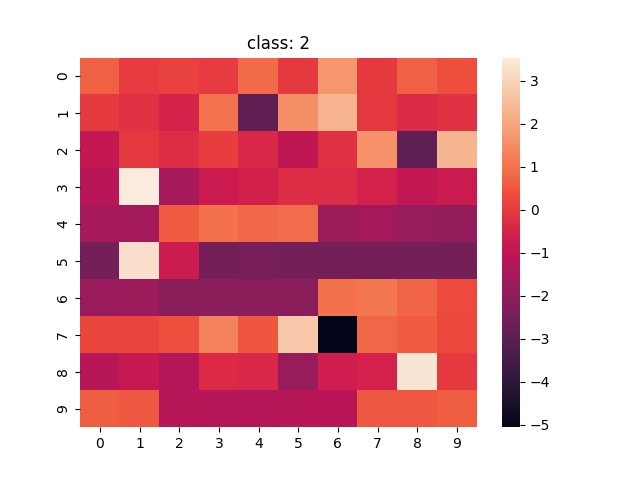
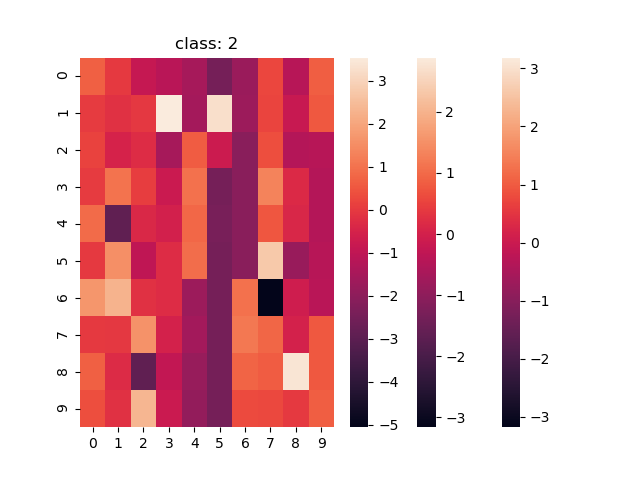
Added heatmaps for correlation with modified logic. Corrected model weights without transpose

diff --git a/Experiment-3/visualize.py b/Experiment-3/visualize.py
@@ -7,7 +7,7 @@ from collections import OrderedDict
 import seaborn as sns
 import numpy as np
 import torch.nn.functional as F
-from torchsummary import summary
+#from torchsummary import summary
 
 
 class Model1D(torch.nn.Module):
@@ -37,9 +37,9 @@ def main():
     weight2 = model.weight2
 
     for category in range(5):
-        ax = sns.heatmap(weight1[category].detach().numpy().transpose())
+        ax = sns.heatmap(weight1[category].detach().numpy())
         plt.title('class: ' + str(category))
-        plt.show()
+        plt.savefig("Weight Heatmaps/1D_2_model_class_" + str(category) + ".png")
 
     max_correlation = {}
     for i in range(5):
@@ -48,8 +48,12 @@ def main():
             k = [m for m in range(10)]
             k.remove(row1)
             for row2 in k:
-                corrmatrix = np.corrcoef(weight1[i][row1].detach().numpy(), weight1[i][row2].detach().numpy())
-                coeffdict[str(row1) + ", " + str(row2)] = corrmatrix[0][1]
+                coeffdict[str(row1) + ", " + str(row2)] = -float('inf')
+                for j in range(10):
+                    temp = weight1[i][row2].detach().numpy()
+                    temp = np.hstack((temp[-j:], temp[:-j]))
+                    corrmatrix = np.corrcoef(weight1[i][row1].detach().numpy(), temp)
+                    coeffdict[str(row1) + ", " + str(row2)] = max(coeffdict[str(row1) + ", " + str(row2)], corrmatrix[0][1])
         print(f'Class: {i}')
         values = list(coeffdict.values())
         maxcorr = max(values)
@@ -70,7 +74,7 @@ def main():
         plt.plot(range(10), row2, label='row-'+str(max_correlation[category][1]))
         plt.legend()
         plt.title('Correlation coeff for class ' + str(category) + ': ' + str(max_correlation[category][2]))
-        plt.show()
+        plt.savefig("Weight Heatmaps/1D_2_model_coeff_class_" + str(category) + ".png")
 
 
 if __name__ == '__main__':
